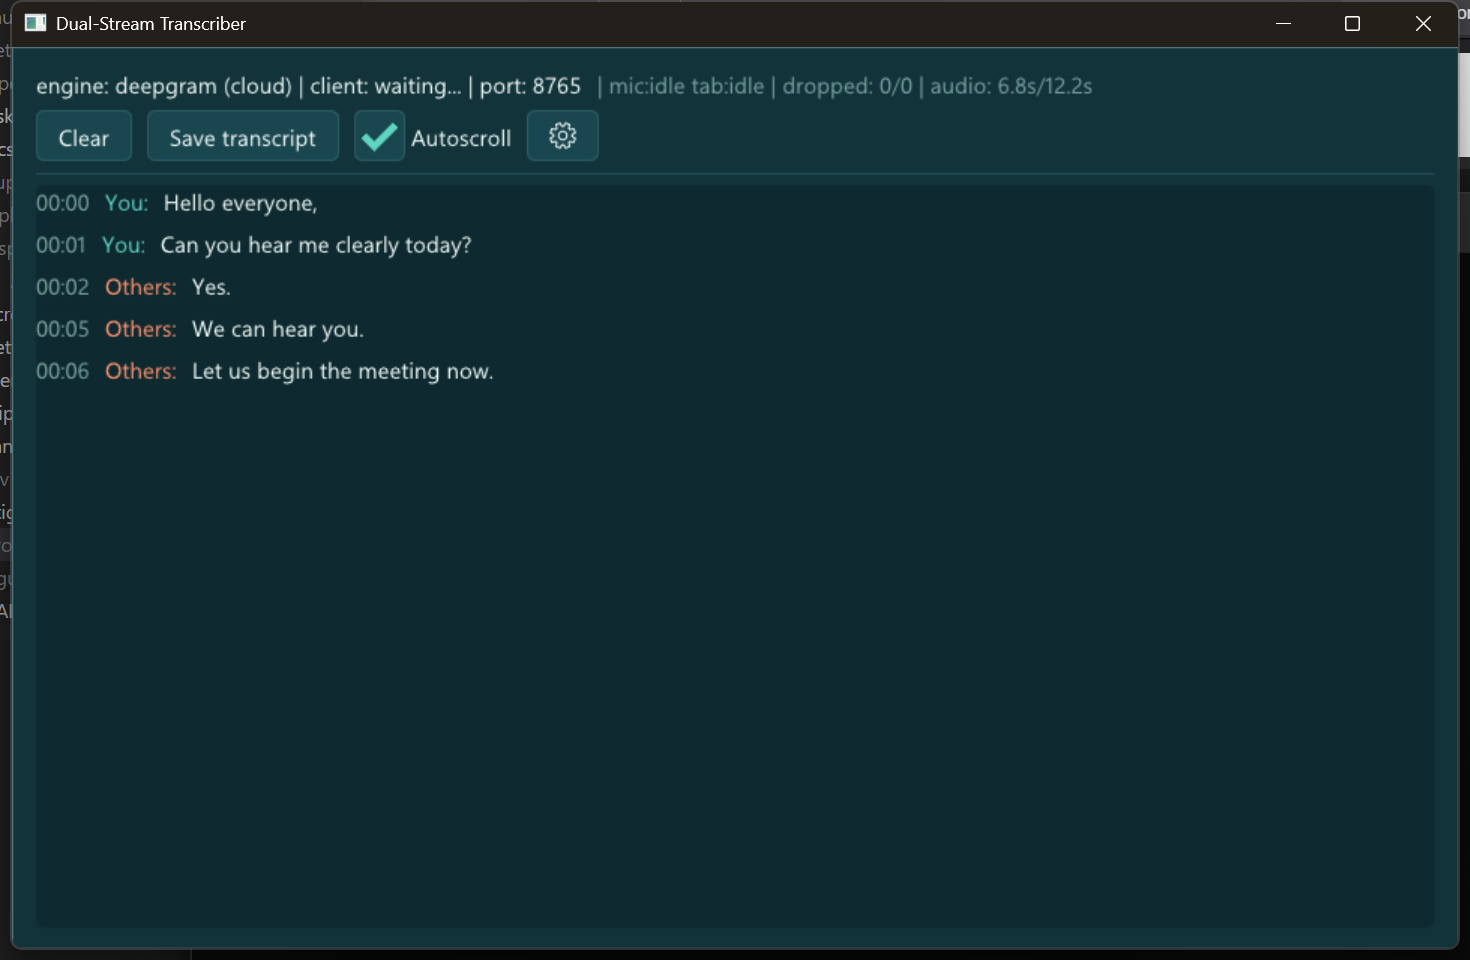
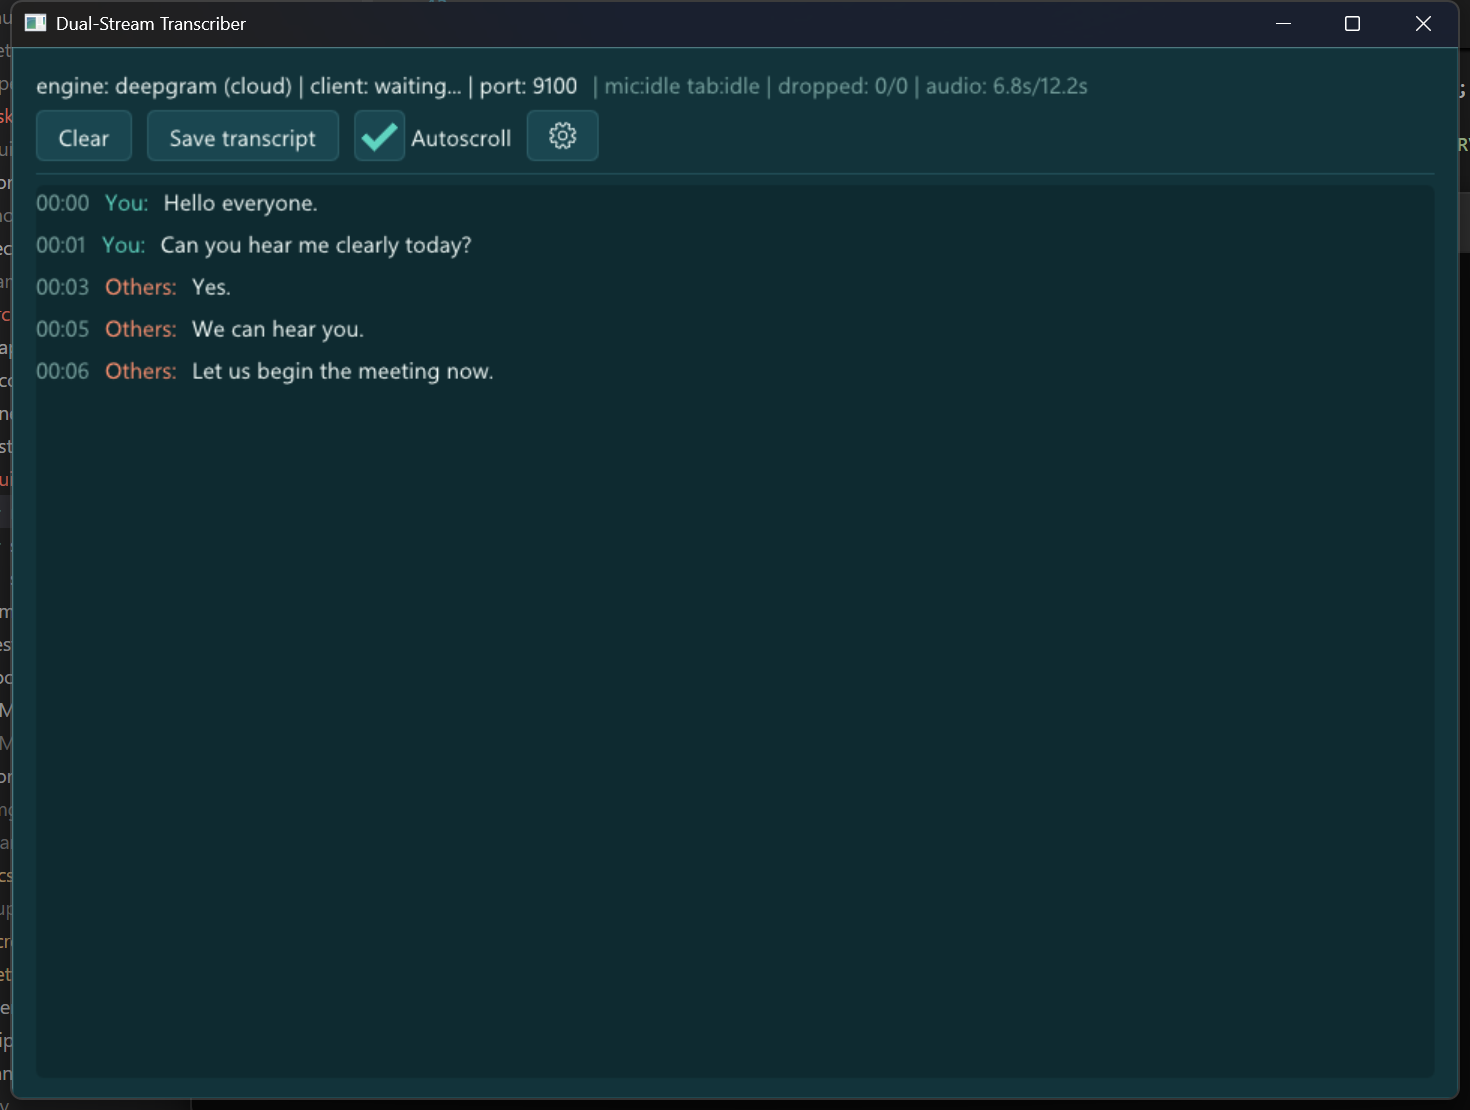
docs: fresh screenshots; both launch methods and CLI examples in README
Main screenshot re-captured from a Deepgram run at the current window
size (timestamps, audio counter); the Settings image now shows the
in-app modal with the highlighted current mode. The Run section leads
with the two launch methods (double-click and terminal) and a block of
generic command-line examples covering every flag.

diff --git a/README.md b/README.md
@@ -162,21 +162,25 @@ onnxruntime, etc.) staged automatically next to each executable by the CMake bui
 
 ### Desktop app
 
-Run from the `desktop/` directory (the default `--model-dir models` is relative to the
-current working directory). The default engine is **Deepgram**, which needs
-`DEEPGRAM_API_KEY` set (see [Deepgram backend](#deepgram-backend)) — pass
-`--engine sherpa` for the fully local, no-account path:
+The app runs **both ways** — pick whichever suits you:
 
-```powershell
-cd desktop
-.\build\Release\transcriber.exe --engine sherpa
-cd ..
-```
+- **Double-click** `desktop\build\Release\transcriber.exe` in Explorer. The very first
+  launch opens the Settings page to pick a mode; every later launch starts straight into
+  the saved choice. The `models/` directory is found automatically next to the exe (up to
+  two parent levels, so `desktop\models` is found from `desktop\build\Release`). A console
+  window opens alongside the UI — that is expected (the same binary serves `--headless`
+  runs).
+- **From a terminal**, with flags for scripted or tuned runs (table and examples below).
+  Run from the `desktop/` directory so the default `--model-dir models` resolves, or pass
+  `--model-dir` explicitly. The default engine is **Deepgram**, which needs an API key
+  (see [Deepgram backend](#deepgram-backend)) — pass `--engine sherpa` for the fully
+  local, no-account path.
 
-A window opens, listening on `ws://127.0.0.1:8765`. The status bar shows the active
-engine/provider, connection state, per-stream (mic/tab) status, and a dropped-chunk
-counter. Only one extension client is accepted at a time — a second connection's `hello` is
-rejected with an error and closed, so the first (active) client is never disturbed.
+Either way a window opens, listening on `ws://127.0.0.1:8765`. The status bar shows the
+active engine/provider, connection state, per-stream (mic/tab) status, dropped-chunk
+counters, and seconds of audio processed per lane. Only one extension client is accepted
+at a time — a second connection's `hello` is rejected with an error and closed, so the
+first (active) client is never disturbed.
 
 Flags:
 
@@ -193,12 +197,19 @@ Flags:
 | `--language` | BCP-47 code or `multi` | `multi` | Deepgram transcription language; `multi` = automatic multilingual transcription with code-switching (nova-3). Local engines are English-only and ignore it |
 | `--help`, `-h` | (flag) | — | Print this flag summary and exit |
 
-Example: `.\build\Release\transcriber.exe --port 9000 --model-dir C:\models\zipformer`
+Command-line examples (run from `desktop/`):
 
-Double-clicking `transcriber.exe` in Explorer also works: when `--model-dir` is not
-overridden, the app looks for `models/` next to the exe and up to two parent levels
-(so `desktop\models` is found from `desktop\build\Release`). A console window opens
-alongside the UI — that is expected (the same binary serves `--headless` runs).
+```powershell
+.\build\Release\transcriber.exe                                    # saved settings (Deepgram by default)
+.\build\Release\transcriber.exe --engine sherpa --provider cuda    # local streaming model on the GPU
+.\build\Release\transcriber.exe --engine parakeet                  # highest-accuracy local model
+.\build\Release\transcriber.exe --engine deepgram --language en    # cloud, pinned to one language
+.\build\Release\transcriber.exe --port 9100                        # non-default WebSocket port
+.\build\Release\transcriber.exe --engine sherpa --decoding greedy --endpoint-silence 0.5
+.\build\Release\transcriber.exe --model-dir C:\models\zipformer    # model directory elsewhere
+.\build\Release\transcriber.exe --headless --duration 40 --engine sherpa   # scripted run, JSONL to stdout
+.\build\Release\transcriber.exe --help                             # full flag reference
+```
 
 **Saving.** Transcript lines carry meeting-relative timestamps (`[03:12]`, counted from
 the session's first words). **Save transcript** opens the standard Save As dialog and
